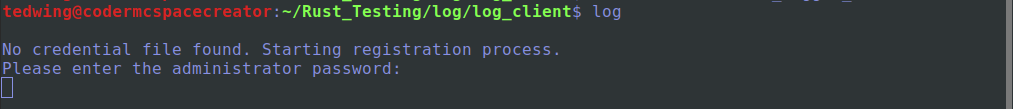
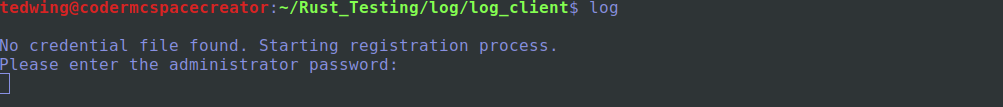
started work on nice markdown readme

diff --git a/README.md b/README.md
@@ -6,8 +6,38 @@ My past experiences with computational experiments - in AI, physics, engineering
 You might ask "well why not use git?". You certainly could use git to track these types of changes but git is more meant for more significant code-base changes that are more or less permanent. In computational science you might want to only change 1 or 2 variables and see how that changes the result. This can quickly generate thousands of git commits that would be impossible to keep track of or analyze using vanilla git or github. As computational scientists we need to easily visualize the relationships between potentially thousands or millions of experimental inputs and outputs. This is what has motivated the current project.
 
 ## How it works
+The current system is broken into 2 parts - the `log_client` and `log_server`. `log_client` is a utility for users or automated programs to upload results to the `log_server`. The `log_server` is a webserver+database combo that receives data from the `log_client` and inserts it into a local MongoDB database. The communication between the client and server is encrypted via TLS to maintain confidentiality.
+
+## How it works - an example
 Once you have `log_server` set up somewhere and all the database/configuration settings are appropriately set, we can now begin using the `log_client`. 
 
 The `log_client` manifests itself as a command-line tool called `log`. We first need to generate an account with our database. This account registration is triggered automatically the first time you use `log`:
 
 ![Alt text](imgs/registration.png)
+
+This prompts you to enter the admin password of your Mongo database. After entering the correct password you should see the resulting messages:
+
+![Alt text](imgs/registration_result.png)
+
+Behind the scenes `log_client` has used this password to authenticate to the `log_server`. After authentication, the server generates a random key for your user and sends this key to the client. This key is stored in `/etc/.Rust_Logger_Credentials` as a file readable only by the root user of the system. This prevents unauthorized users from stealing this key and potentially accessing the database. Future interactions with the server are authenticated using this key file.
+
+From the above output messages we can see the 3 main functions `log` can perform: `Execute and log`, `log`, and `clean`.
+
+What exactly does the system log? Let's see an example. 
+
+The original use-case of Rust_Logger was to manage the input/outputs of LAMMPS molecular dynamics simulations. I wanted a system that could run a simulation and then log all the inputs/outputs. This is the meaning of `Execute and log`. To do this with LAMMPS I could do the following from terminal:
+
+>*For this I am referencing the `flow/` example in `lammps/examples/flow/` (note that I am running the below command from the same directory as the input file but this does not have to be the case. I can use the log utility to run a command from anywhere on the system assuming I provide the correct path to the input file/directory*).
+
+`$ log lmp -in in.flow.couette`
+
+Everything after the `log` command is simply what I would normally run for a LAMMPS simulation. Running this command we will see all the normal output from LAMMPS plus a few extra lines from the `log_client`:
+
+![Alt text](imgs/command_output_example.png)
+
+The final line: `"Data received"` let's us know that the `log_server` has received our data. Let's see what that is via Mongo Compass. 
+
+![Alt text](imgs/upload_example.png)
+
+The first things we see are several fields with `"upload_"` in the prefix. This is the associated metadata of the upload. The `files` object is what holds the actual important bits that we care about.
+
